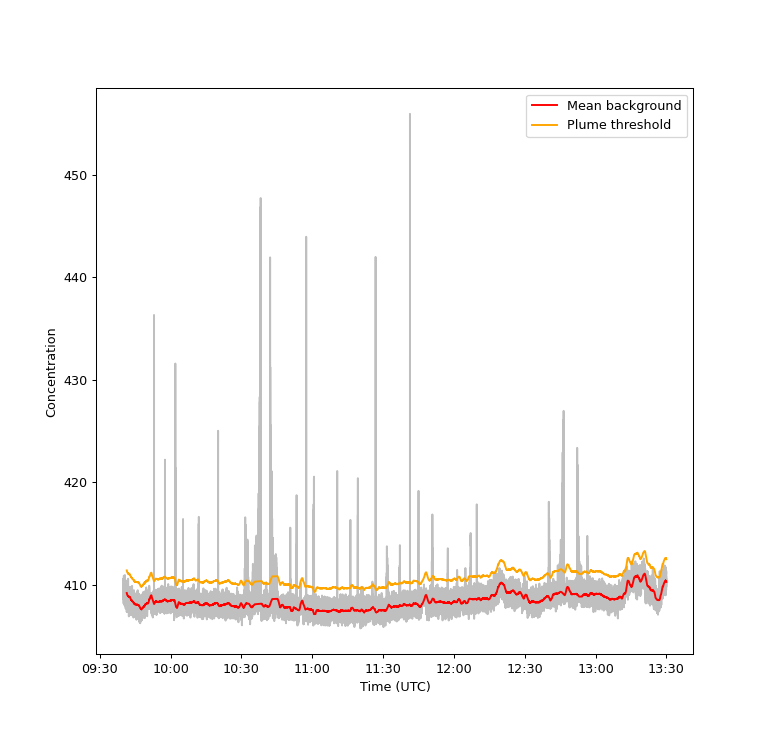
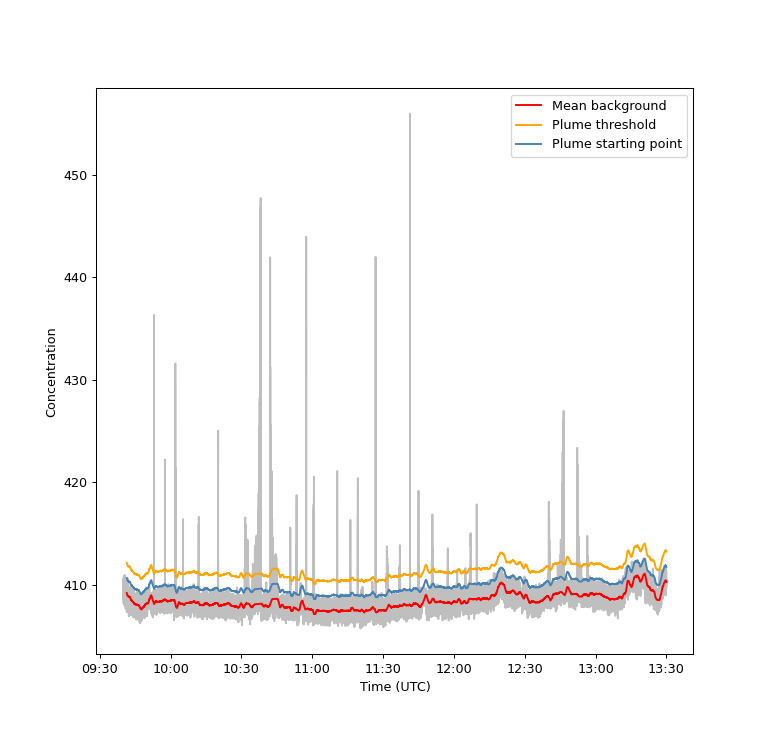
Added plume_threshold_starting argument
Plumes are now considered to have started once they have crossed a lower
threshold then that used to detect them. This allows the detection
threshold to be sufficiently high to minimize false positives, while
not losing data from valid plumes that are detected.

Changed region(s): [[0.1558, 0.7184, 0.8727, 0.8381], [0.7169, 0.1197, 0.9039, 0.2095], [0.6545, 0.1197, 0.6857, 0.2095]]

diff --git a/acruisepy/acruisepy/peakid.py b/acruisepy/acruisepy/peakid.py
@@ -60,6 +60,7 @@ def detect_plumes(
     conc: pd.Series,
     bg: pd.Series,
     plume_sd_threshold: float = 3,
+    plume_sd_starting: float = 2,
     plume_buffer: float = 10,
 ) -> pd.DataFrame:
     """
@@ -74,6 +75,9 @@ def detect_plumes(
         - plume_sd_threshold (float): Plumes are identified as samples
             greater than certain number of standard deviations from a
             smoothed background.
+        - plume_sd_starting (float): For any identified plumes, it is determined
+            to have started once it reached this many standard deviations above
+            the background.
         - plume_buffer (float): A buffer in seconds applied to plumes, so
             that if they are overlapping they are merged into the same plume.
 
@@ -85,7 +89,7 @@ def detect_plumes(
     df = pd.DataFrame({"conc": conc, "bg": bg})
 
     # first iteration of plume detection
-    df["is_plume"] = df["conc"] >= (df["bg"] + plume_sd_threshold * df["bg"].std())
+    df["is_plume"] = df["conc"] > (df["bg"] + plume_sd_threshold * df["bg"].std())
     df["plume_group"] = (df["is_plume"] != df["is_plume"].shift()).cumsum()
     plume_groups = (
         df.loc[df["is_plume"]]
@@ -102,6 +106,22 @@ def detect_plumes(
         for s, e in zip(plume_groups["start"], plume_groups["end"])
     ]
 
+    # Define plumes as starting from when they crossed the plume_sd_starting
+    # threshold
+    earliest_starting = df["conc"].shift() <= (
+        df["bg"] + plume_sd_starting * df["bg"].std()
+    )
+    latest_starting = df["conc"].shift(-1) <= (
+        df["bg"] + plume_sd_starting * df["bg"].std()
+    )
+    plume_intervals_extended = [
+        pd.Interval(
+            df.loc[(df.index < plume.left) & earliest_starting].index.max(),
+            df.loc[(df.index > plume.right) & latest_starting].index.min(),
+        )
+        for plume in plume_intervals
+    ]
+
     # Combine overlapping plumes
     buffer_time = datetime.timedelta(seconds=plume_buffer)
 
@@ -112,7 +132,9 @@ def detect_plumes(
         else:
             return [el] + acc
 
-    plume_overlap = reduce(reduce_intervals, plume_intervals[1::], [plume_intervals[0]])
+    plume_overlap = reduce(
+        reduce_intervals, plume_intervals_extended[1::], [plume_intervals_extended[0]]
+    )
 
     # Just turn into DataFrame for user friendliness
     plumes_condensed = pd.DataFrame(
@@ -159,6 +181,7 @@ def plot_background(
     conc: pd.Series,
     background: pd.DataFrame,
     plume_sd_threshold: float = 3,
+    plume_sd_starting: float = 2,
     ylabel: str = "Concentration",
     xlabel: str = "Time (UTC)",
     date_fmt: str = "%H:%M",
@@ -166,7 +189,8 @@ def plot_background(
 ) -> None:
     """
     Plots the concentration time-series highlighting the extracted background
-    (red) and the threshold for what is considered a plume (orange).
+    (red), the threshold for what is considered a plume (orange), and when
+    plumes will be determined to have started at (blue).
 
     Args:
         - conc (pd.Series): The concentration time-series. Must have a Datetime
@@ -176,6 +200,9 @@ def plot_background(
         - plume_sd_threshold (float): Plumes are identified as samples
             greater than certain number of standard deviations from a
             smoothed background.
+        - plume_sd_starting (float): For any identified plumes, it is determined
+            to have started once it reached this many standard deviations above
+            the background.
         - ylabel (str): y-axis label
         - xlabel (str): x-axis label
         - date_fmt (str): How to display the x-axis datetime breaks
@@ -195,6 +222,11 @@ def plot_background(
         background + plume_sd_threshold * background.std(),
         color="orange",
         label="Plume threshold",
+    )
+    ax.plot(
+        background + plume_sd_starting * background.std(),
+        color="steelblue",
+        label="Plume starting point",
     )
     ax.legend()
     plt.show()

diff --git a/README.md b/README.md
@@ -39,20 +39,22 @@ bg = peakid.identify_background(df_co2['conc'], bg_sd_window=180, bg_sd_threshol
 ```
 
 To determine the appropriateness of the extracted background, `plot_background` plots the concentration time-series with the background highlighted alongside the limit of what is considered a plume, defined as `plume_sd_threshold` standard deviations about the mean background.
+Any plumes will then be determined to start from the point at which they cross `plume_sd_starting` standard deviations above the mean background.
+If they were considered to start from the point at which they cross the `plume_sd_threshold` boundary instead then some plume data would be lost.
 
 ```python
-peakid.plot_background(df_co2['conc'], bg, plume_sd_threshold=3)
+peakid.plot_background(df_co2['conc'], bg, plume_sd_threshold=4, plume_sd_starting=2)
 ```
 
 ![the extracted background concentration level highlighted on the concentration time-series](images/background_py.png)
 
-Once both a satisfactory background and a suitable value for `plume_sd_threshold` have been identified, the plumes can be detected using `peakid.detect_plumes` (again use `help(peakid.detect_plumes)` to see full details for what arguments it takes).
+Once both a satisfactory background and suitable values for `plume_sd_threshold` and `plume_sd_starting` have been identified, the plumes can be detected using `peakid.detect_plumes` (again use `help(peakid.detect_plumes)` to see full details for what arguments it takes).
 It's crucial here that both the concentration and the background have a DatetimeIndex, which should be the case if they are loaded in from CSV as shown in the example above.
 
 The plumes can be visually inspected using the `peakid.plot_plumes` function, adjusting the parameters in the previous step until necessary.
 
 ```python
-plumes = peakid.detect_plumes(df_co2['conc'], bg, plume_sd_threshold=3, plume_buffer=10)
+plumes = peakid.detect_plumes(df_co2['conc'], bg, plume_sd_threshold=4, plume_sd_starting=2, plume_buffer=5)
 peakid.plot_plumes(df_co2['conc'], plumes)
 ```
 
